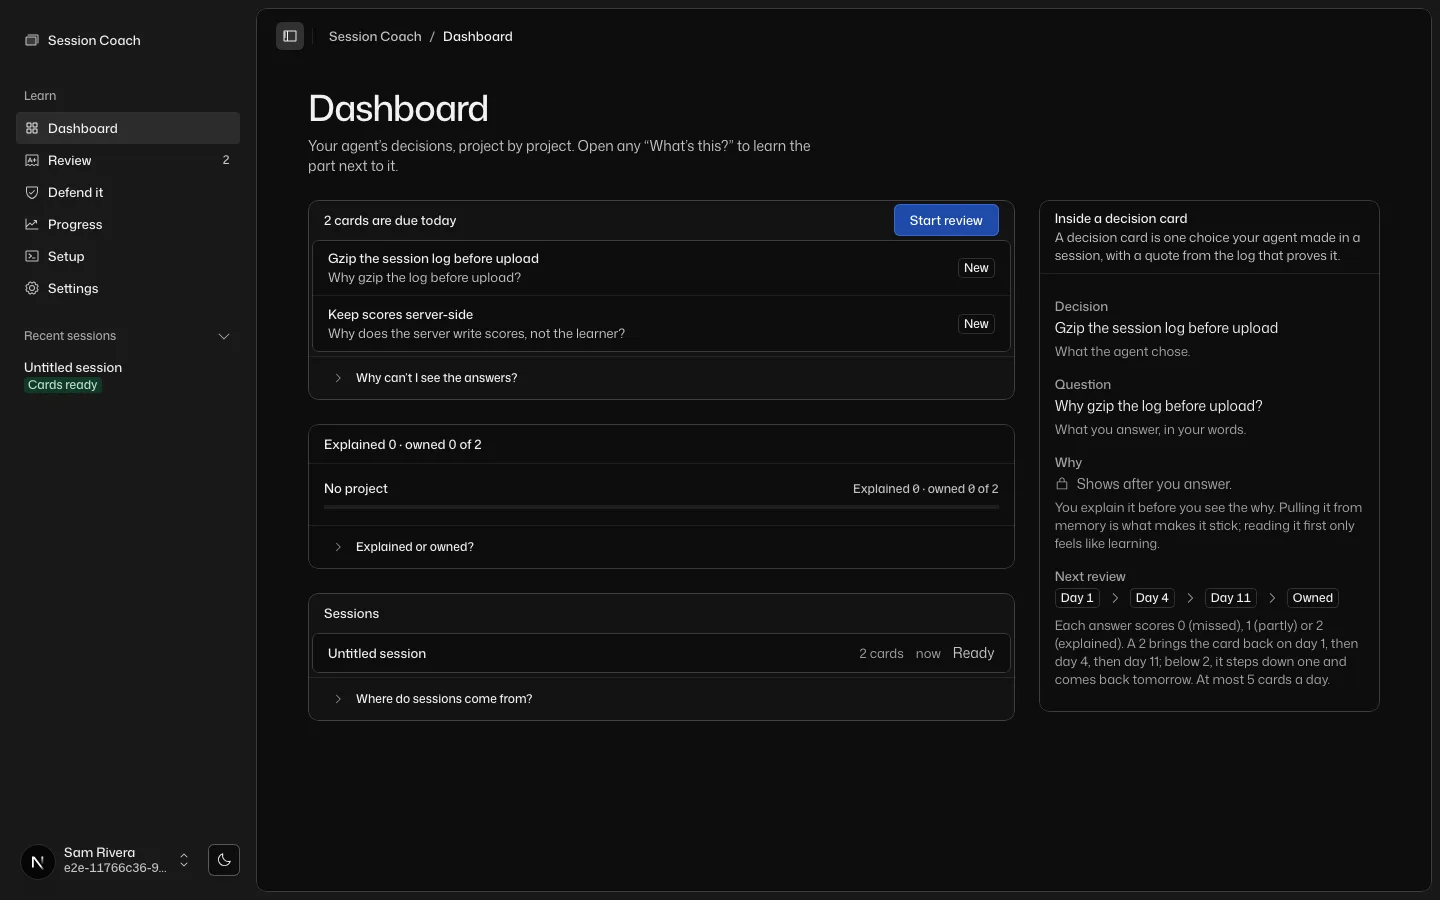
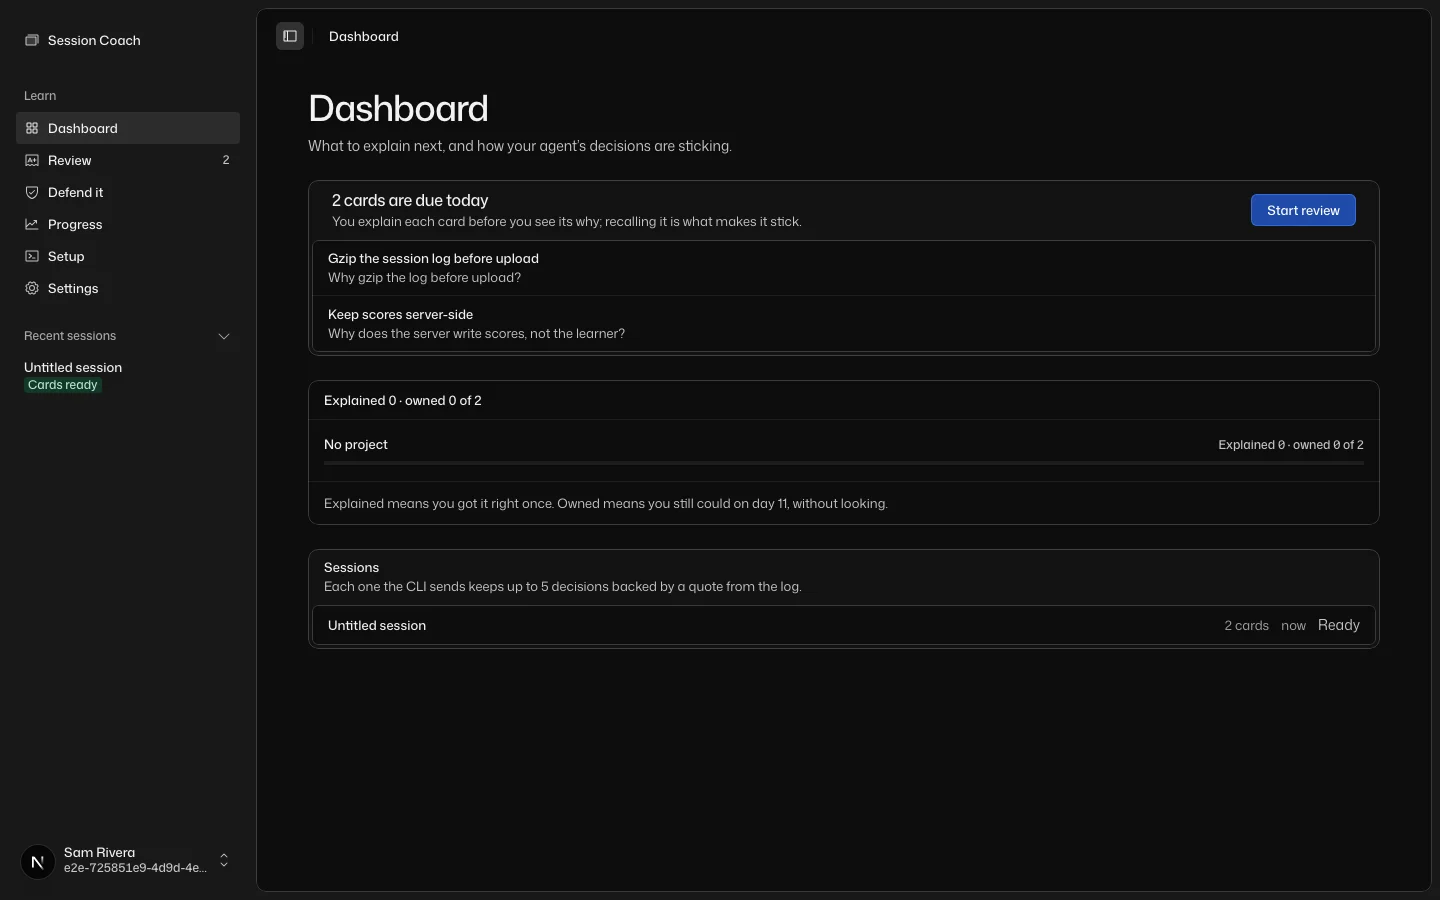
fix(ui): integrate the redesign lanes
Add a divided DataList variant for the review result, keep the app shell still while
review cards slide, show marketing reveals when scripting is off, drop the dead bento
CSS, tokenize the theme toggle's duration, fix screenshot names for id routes, and
reshoot the landing page's dashboard image from the redesigned dashboard.

diff --git a/apps/web/src/components/ui/data-list.tsx b/apps/web/src/components/ui/data-list.tsx
@@ -15,13 +15,15 @@ import { EMPTY_VALUE } from "@/lib/ui/format";
 // renders as a blank that looks like a bug.
 //
 // variant="framed" (card and frame are the old names, kept) puts the list in its own frame with the pairs split by the row
-// rule. Inside another frame use plain.
+// rule. variant="divided" keeps the row rules without the frame, for a list that sits flat in a card. Inside another
+// frame use plain.
 
 const dataListVariants = cva("group/data-list min-w-0", {
   variants: {
     variant: {
       plain: "",
       framed: "frame bg-page px-4",
+      divided: "",
       /** @deprecated Use framed. */
       card: "frame bg-page px-4",
       /** @deprecated Use framed. */
@@ -83,7 +85,7 @@ function DataListItem({ className, ...props }: React.ComponentProps<"div">) {
         // The item's own gap would replace the list's 16px column gap in the subgrid, so it repeats it: the longest label never touches its value.
         "group-data-[orientation=horizontal]/data-list:@md/data-list:grid group-data-[orientation=horizontal]/data-list:@md/data-list:grid-cols-subgrid group-data-[orientation=horizontal]/data-list:@md/data-list:items-baseline group-data-[orientation=horizontal]/data-list:@md/data-list:gap-x-4",
         "group-data-[size=sm]/data-list:min-h-(--row-sm) group-data-[size=sm]/data-list:py-1.5",
-        "group-data-[variant=framed]/data-list:[&+&]:rule-top",
+        "group-data-[variant=divided]/data-list:[&+&]:rule-top group-data-[variant=framed]/data-list:[&+&]:rule-top",
         className,
       )}
       {...props}

diff --git a/apps/web/src/styles/theme.css b/apps/web/src/styles/theme.css
@@ -1,5 +1,5 @@
 /* The app's own theme on top of the design system: chart series, the secondary key's edge, success and
-   warning, and the motion, bento and toast animations. Imported by app/globals.css after utilities.css. */
+   warning, and the motion, entrance, route-transition and toast animations. Imported by app/globals.css after utilities.css. */
 
 /* The chart series colours are emitted as real variables too, because chart configs read them with var().
    Declared again on every [data-surface], so a chart on a remapped surface takes that surface's hues. */
@@ -53,21 +53,6 @@
 @theme {
   --ease-out-quint: cubic-bezier(0.22, 1, 0.36, 1);
   --ease-in-out-quint: cubic-bezier(0.83, 0, 0.17, 1);
-}
-
-/*
- * The landing bento (components/marketing/bento-*.tsx): the sprite's one-turn spin on click, and the soft
- * blur on the checks that are not in focus. Reduced motion drops the spin at the call site.
- */
-@theme {
-  --blur-row: 2px;
-  --animate-spin-y: spin-y 900ms cubic-bezier(0.45, 0, 0.55, 1);
-
-  @keyframes spin-y {
-    to {
-      transform: rotateY(360deg);
-    }
-  }
 }
 
 /*
@@ -193,6 +178,16 @@
   to {
     opacity: 0;
     translate: var(--route-slide) 0;
+  }
+}
+
+/* Marketing reveals (components/marketing/reveal.tsx) start hidden in inline styles that only JavaScript lifts. With
+   scripting off, show them as they are. */
+@media (scripting: none) {
+  [data-reveal] {
+    opacity: 1 !important;
+    filter: none !important;
+    transform: none !important;
   }
 }
 

diff --git a/apps/web/src/components/theme/theme-toggle.tsx b/apps/web/src/components/theme/theme-toggle.tsx
@@ -36,11 +36,11 @@ export function ThemeToggle() {
         <span className="relative size-4">
           <SunIcon
             aria-hidden="true"
-            className="absolute inset-0 size-4 scale-100 rotate-0 opacity-100 transition duration-200 ease-out-quint motion-reduce:transition-opacity dark:scale-0 dark:-rotate-90 dark:opacity-0"
+            className="absolute inset-0 size-4 scale-100 rotate-0 opacity-100 transition duration-(--dur-200) ease-out-quint motion-reduce:transition-opacity dark:scale-0 dark:-rotate-90 dark:opacity-0"
           />
           <MoonIcon
             aria-hidden="true"
-            className="absolute inset-0 size-4 scale-0 rotate-90 opacity-0 transition duration-200 ease-out-quint motion-reduce:transition-opacity dark:scale-100 dark:rotate-0 dark:opacity-100"
+            className="absolute inset-0 size-4 scale-0 rotate-90 opacity-0 transition duration-(--dur-200) ease-out-quint motion-reduce:transition-opacity dark:scale-100 dark:rotate-0 dark:opacity-100"
           />
         </span>
       </DropdownMenuTrigger>

diff --git a/apps/web/src/components/marketing/reveal.tsx b/apps/web/src/components/marketing/reveal.tsx
@@ -6,6 +6,7 @@ import { MotionConfig, motion } from "motion/react";
 // A marketing block that blurs in once as it scrolls into view: --enter-blur, --enter-rise and --dur-reveal on
 // --ease-out-expo (motion takes numbers, so the token values are repeated here). Reduced motion shows the block as it
 // is: the motion-reduce classes override the inline start styles, so nothing waits on a scroll that never animates.
+// Without JavaScript the start styles would stay, so styles/theme.css shows every [data-reveal] under scripting: none.
 const hidden = { opacity: 0, filter: "blur(8px)", y: 12 };
 const shown = { opacity: 1, filter: "blur(0px)", y: 0 };
 
@@ -13,6 +14,7 @@ export function Reveal({ className, children }: { className?: string; children: 
   return (
     <MotionConfig reducedMotion="user">
       <motion.div
+        data-reveal
         initial={hidden}
         whileInView={shown}
         viewport={{ once: true, amount: 0.2 }}

diff --git a/apps/web/src/app/(app)/layout.tsx b/apps/web/src/app/(app)/layout.tsx
@@ -48,6 +48,9 @@ async function SignedInSidebar() {
   );
 }
 
+// Review cards slide on their own (components/review/card-transition.tsx), so the shell holds still for those types.
+const shellFade = { forward: "none", back: "none", default: "route-fade" };
+
 export default function AppLayout({ children }: LayoutProps<"/">) {
   return (
     <SidebarProvider>
@@ -64,7 +67,7 @@ export default function AppLayout({ children }: LayoutProps<"/">) {
           <AppBreadcrumb />
         </header>
         {/* Only the page content crossfades on a route change; the sidebar and topbar hold still. */}
-        <ViewTransition default="route-fade">{children}</ViewTransition>
+        <ViewTransition default={shellFade}>{children}</ViewTransition>
       </SidebarInset>
     </SidebarProvider>
   );

diff --git a/apps/web/e2e/screens.spec.ts b/apps/web/e2e/screens.spec.ts
@@ -110,8 +110,8 @@ async function shoot(page: Page, path: string) {
       ? "home"
       : path
           .slice(1)
-          .replaceAll("/", "-")
-          .replace(/[0-9a-f-]{36}/, "id");
+          .replace(/[0-9a-f-]{36}/, "id")
+          .replaceAll("/", "-");
   for (const viewport of VIEWPORTS) {
     await page.setViewportSize(viewport);
     for (const scheme of SCHEMES) {

diff --git a/apps/web/src/components/review/quiz-form.tsx b/apps/web/src/components/review/quiz-form.tsx
@@ -216,7 +216,7 @@ export function QuizResult({
           )}
         </CardHeader>
         <CardContent>
-          <DataList>
+          <DataList variant="divided">
             {!skipped && (
               <>
                 <DataListItem>

diff --git a/docs/CODEBASE.md b/docs/CODEBASE.md
@@ -517,25 +517,25 @@ open. `proxy.ts` skips these routes: they have no session. Retention maths is pu
 
 ## Where to change what
 
-| To change...                          | Edit                                                                                                                                                                                                                                                                                                                                             |
-| ------------------------------------- | ------------------------------------------------------------------------------------------------------------------------------------------------------------------------------------------------------------------------------------------------------------------------------------------------------------------------------------------------ |
-| Which pages need sign-in              | `PROTECTED` in [`lib/supabase/proxy.ts`](../apps/web/src/lib/supabase/proxy.ts)                                                                                                                                                                                                                                                                  |
-| Where sign-in sends people by default | `DEFAULT_NEXT` in [`lib/auth/safe-next.ts`](../apps/web/src/lib/auth/safe-next.ts)                                                                                                                                                                                                                                                               |
-| Auth form copy and rules              | [`app/(auth)/actions.ts`](<../apps/web/src/app/(auth)/actions.ts>), [`components/auth/`](../apps/web/src/components/auth/)                                                                                                                                                                                                                       |
-| Auth email wording                    | [`supabase/templates/`](../supabase/templates/) and the same templates in the Supabase dashboard                                                                                                                                                                                                                                                 |
-| The review gaps (1, 3, 7 days)        | `GAP_DAYS` in [`lib/review/schedule.ts`](../apps/web/src/lib/review/schedule.ts), with its test, ARCHITECTURE.md, and the copy that hard-codes the 1, 3, 7 gaps (reviews on day 1, 4 and 11): `components/marketing/` (`bento-section.tsx`, `review-schedule.tsx`), `components/auth/auth-art.tsx` and the FAQ in `(marketing)/support/page.tsx` |
-| What each question level asks         | `QUESTION_LEVELS` in [`lib/pipeline/extract.ts`](../apps/web/src/lib/pipeline/extract.ts) and its test; examples in [`lib/projects/level.ts`](../apps/web/src/lib/projects/level.ts)                                                                                                                                                             |
-| The grading prompt or output shape    | [`lib/review/grade.ts`](../apps/web/src/lib/review/grade.ts) and its test                                                                                                                                                                                                                                                                        |
-| Model provider or model               | Env vars only: `MODEL_PROVIDER`, `MODEL_<TASK>`, the provider key                                                                                                                                                                                                                                                                                |
-| A new model provider                  | `KEY_ENV` and `request()` in [`lib/model/call-model.ts`](../apps/web/src/lib/model/call-model.ts)                                                                                                                                                                                                                                                |
-| What "can still explain" means        | [`lib/progress/progress.ts`](../apps/web/src/lib/progress/progress.ts), its test and ARCHITECTURE.md                                                                                                                                                                                                                                             |
-| What "explained" and "owned" mean     | `learner_ownership()` in [`20261105000200_ownership.sql`](../supabase/migrations/20261105000200_ownership.sql)                                                                                                                                                                                                                                   |
-| "Due today" and the 5-a-day cap       | `todayQueue` and `DAILY_CAP` in [`lib/review/today.ts`](../apps/web/src/lib/review/today.ts), with its test                                                                                                                                                                                                                                      |
-| What a session is called              | [`lib/sessions/name.ts`](../apps/web/src/lib/sessions/name.ts)                                                                                                                                                                                                                                                                                   |
-| Session list columns or page size     | [`lib/sessions/rows.ts`](../apps/web/src/lib/sessions/rows.ts)                                                                                                                                                                                                                                                                                   |
-| Card columns shown on /s/[id]         | [`lib/cards/columns.ts`](../apps/web/src/lib/cards/columns.ts) (never `model_answer`)                                                                                                                                                                                                                                                            |
-| A table, column, policy or grant      | A new migration (team agreement first), `packages/shared`, and [DATA_MODEL.md](DATA_MODEL.md)                                                                                                                                                                                                                                                    |
-| Colours, spacing, type, motion        | [`styles/tokens.css`](../apps/web/src/styles/tokens.css)                                                                                                                                                                                                                                                                                         |
-| A component's look                    | A variant in its file under [`components/ui/`](../apps/web/src/components/ui/)                                                                                                                                                                                                                                                                   |
-| Security headers                      | [`apps/web/next.config.ts`](../apps/web/next.config.ts)                                                                                                                                                                                                                                                                                          |
-| Play Stats numbers                    | [PLAY_API.md](PLAY_API.md) first, then `app/api/dashboard/v1/` and `lib/play-stats.ts`                                                                                                                                                                                                                                                           |
+| To change...                          | Edit                                                                                                                                                                                                                                                                       |
+| ------------------------------------- | -------------------------------------------------------------------------------------------------------------------------------------------------------------------------------------------------------------------------------------------------------------------------- |
+| Which pages need sign-in              | `PROTECTED` in [`lib/supabase/proxy.ts`](../apps/web/src/lib/supabase/proxy.ts)                                                                                                                                                                                            |
+| Where sign-in sends people by default | `DEFAULT_NEXT` in [`lib/auth/safe-next.ts`](../apps/web/src/lib/auth/safe-next.ts)                                                                                                                                                                                         |
+| Auth form copy and rules              | [`app/(auth)/actions.ts`](<../apps/web/src/app/(auth)/actions.ts>), [`components/auth/`](../apps/web/src/components/auth/)                                                                                                                                                 |
+| Auth email wording                    | [`supabase/templates/`](../supabase/templates/) and the same templates in the Supabase dashboard                                                                                                                                                                           |
+| The review gaps (1, 3, 7 days)        | `GAP_DAYS` in [`lib/review/schedule.ts`](../apps/web/src/lib/review/schedule.ts), with its test, ARCHITECTURE.md, and the copy that hard-codes the 1, 3, 7 gaps (reviews on day 1, 4 and 11): `components/auth/auth-art.tsx` and the FAQ in `(marketing)/support/page.tsx` |
+| What each question level asks         | `QUESTION_LEVELS` in [`lib/pipeline/extract.ts`](../apps/web/src/lib/pipeline/extract.ts) and its test; examples in [`lib/projects/level.ts`](../apps/web/src/lib/projects/level.ts)                                                                                       |
+| The grading prompt or output shape    | [`lib/review/grade.ts`](../apps/web/src/lib/review/grade.ts) and its test                                                                                                                                                                                                  |
+| Model provider or model               | Env vars only: `MODEL_PROVIDER`, `MODEL_<TASK>`, the provider key                                                                                                                                                                                                          |
+| A new model provider                  | `KEY_ENV` and `request()` in [`lib/model/call-model.ts`](../apps/web/src/lib/model/call-model.ts)                                                                                                                                                                          |
+| What "can still explain" means        | [`lib/progress/progress.ts`](../apps/web/src/lib/progress/progress.ts), its test and ARCHITECTURE.md                                                                                                                                                                       |
+| What "explained" and "owned" mean     | `learner_ownership()` in [`20261105000200_ownership.sql`](../supabase/migrations/20261105000200_ownership.sql)                                                                                                                                                             |
+| "Due today" and the 5-a-day cap       | `todayQueue` and `DAILY_CAP` in [`lib/review/today.ts`](../apps/web/src/lib/review/today.ts), with its test                                                                                                                                                                |
+| What a session is called              | [`lib/sessions/name.ts`](../apps/web/src/lib/sessions/name.ts)                                                                                                                                                                                                             |
+| Session list columns or page size     | [`lib/sessions/rows.ts`](../apps/web/src/lib/sessions/rows.ts)                                                                                                                                                                                                             |
+| Card columns shown on /s/[id]         | [`lib/cards/columns.ts`](../apps/web/src/lib/cards/columns.ts) (never `model_answer`)                                                                                                                                                                                      |
+| A table, column, policy or grant      | A new migration (team agreement first), `packages/shared`, and [DATA_MODEL.md](DATA_MODEL.md)                                                                                                                                                                              |
+| Colours, spacing, type, motion        | [`styles/tokens.css`](../apps/web/src/styles/tokens.css)                                                                                                                                                                                                                   |
+| A component's look                    | A variant in its file under [`components/ui/`](../apps/web/src/components/ui/)                                                                                                                                                                                             |
+| Security headers                      | [`apps/web/next.config.ts`](../apps/web/next.config.ts)                                                                                                                                                                                                                    |
+| Play Stats numbers                    | [PLAY_API.md](PLAY_API.md) first, then `app/api/dashboard/v1/` and `lib/play-stats.ts`                                                                                                                                                                                     |
